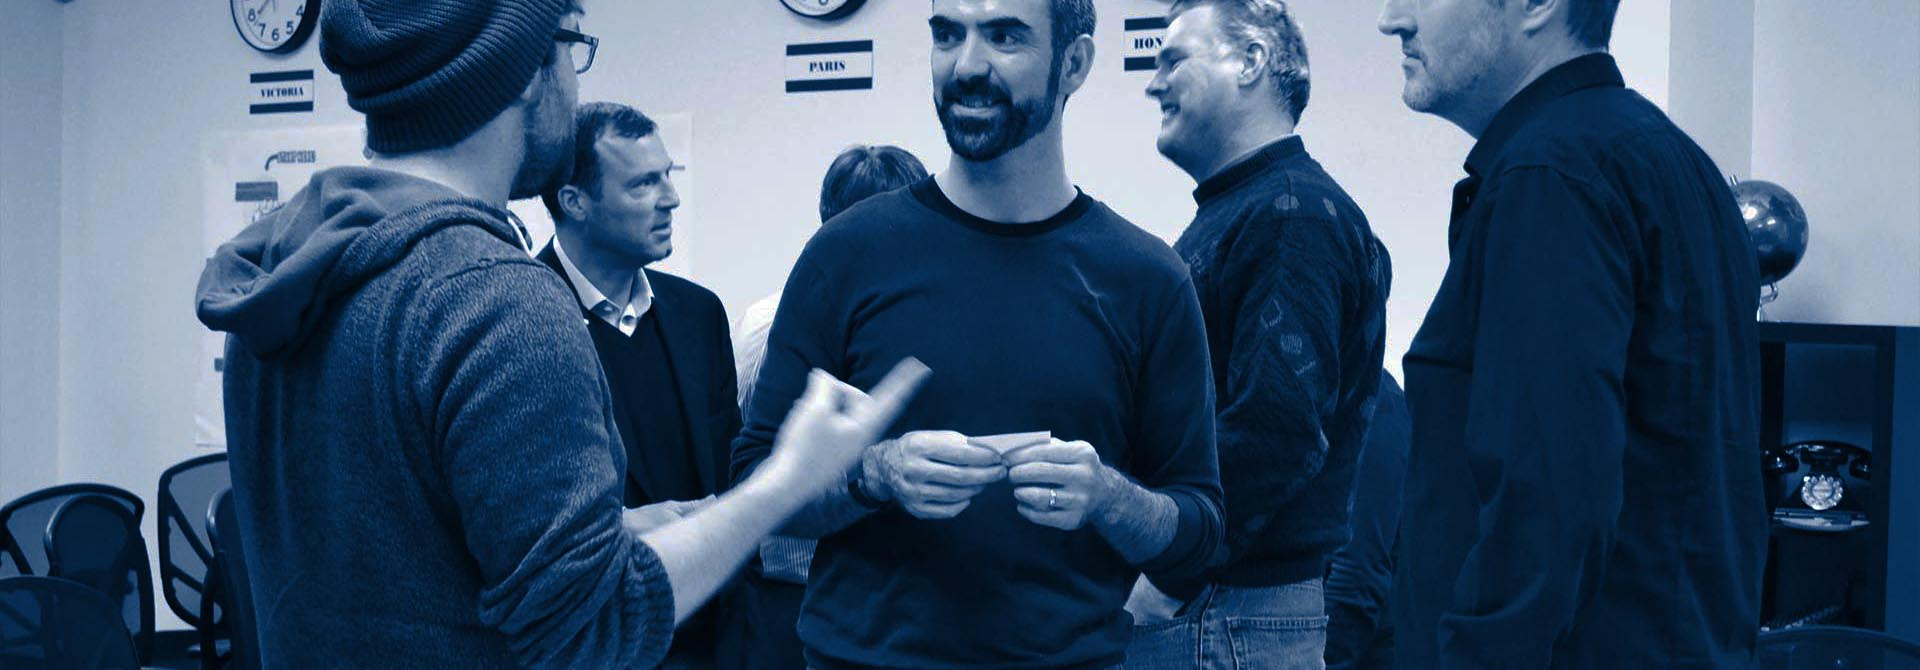
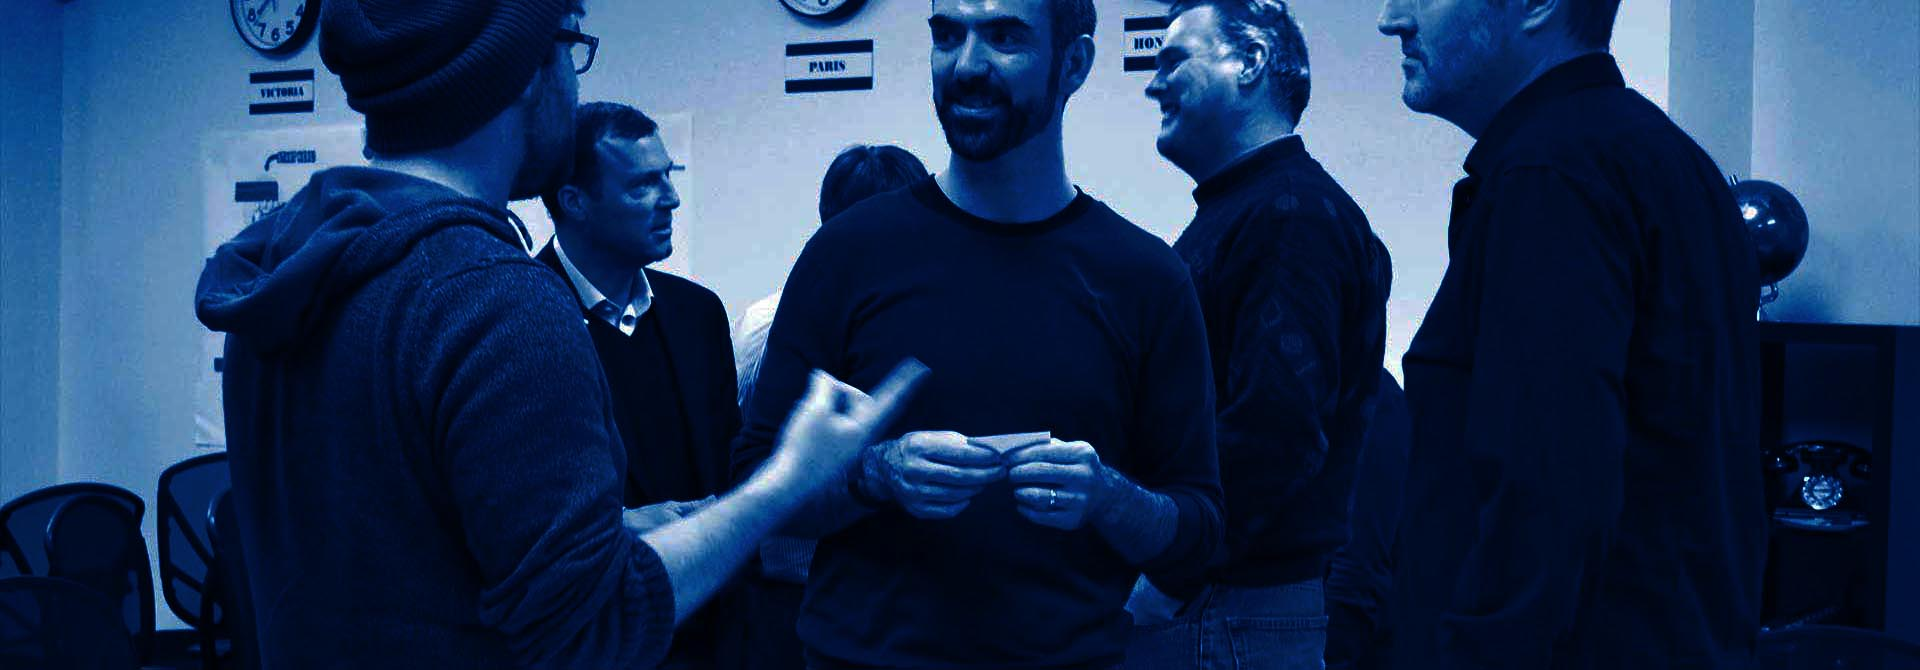
signup page and labels back to solid
added image to signup page

diff --git a/modules/users/client/views/authentication/authentication.client.view.html b/modules/users/client/views/authentication/authentication.client.view.html
@@ -1,23 +1,24 @@
-<section style="background: #000 url('/modules/core/client/img/headers/signup-blue.jpg') no-repeat center;">
+<section class="signup">
 
   <div class="container">
 
-  <div class="row" style="padding-top: 0; margin-top: -10px; margin-bottom: 50px;">
+  <div class="row" style="padding-top: 0; margin-top: -10px;">
 
-    <div class="col-xs-12" style="text-align: center; margin-top: 0;">
-      <p style="color: white;">Join <span style="font-size: 16px;">{{vm.usercount}}</span> other developers, entrepreneurs, and government innovators helping us to evolve.</p>  
-    </div>
-    
-    <div class="col-xs-12 col-md-6" style="text-align: center; padding-bottom: 30px; margin-bottom: 30px;">
-      <h3><a href ng-click="vm.callOauthProvider('/api/auth/github')">Sign in with your GitHub account</h3>
+    <div class="col-xs-12 col-md-6" style="text-align: center; margin-bottom: 30px;">
+      <br>
+      <p style="color: white; font-size: 14px;">Join <!--<span style="font-size: 16px; font-weight: 600;">{{vm.usercount}}</span>--> a community of developers, entrepreneurs, and public service innovators who are making public services better.</p>
+      <br>
+      <div class="card" style="background-color: white;">
+        <h3><a href ng-click="vm.callOauthProvider('/api/auth/github')">Sign in with your GitHub account</h3>
       <!--<div class="social-account-container social-button"><a class="btn"><img class="img-responsive" ng-click="vm.callOauthProvider('/api/auth/github')" ng-src="/modules/users/client/img/buttons/github.png"></a></div>
       <br><br>-->
-      <h2><a href ng-click="vm.callOauthProvider('/api/auth/github')"><i class="fa fa-github fa-3x"></i></a></h2>
-      <p style="color: #d2edf9; font-weight: 100;">Don't have one yet? It only takes a minute.</p>
-      <br>
+        <h2><a href ng-click="vm.callOauthProvider('/api/auth/github')"><i class="fa fa-github fa-3x"></i></a></h2>
+        <p style="color: black; font-weight: 100;">Don't have one yet? It only takes a minute.</p>
+        <br>
+      </div>
     </div>
 
-    <div class="col-xs-12 col-md-4 col-md-offset-2" style="color: white; font-weight: 100;">
+    <div class="col-xs-12 col-md-4 col-md-offset-1" style="color: white; font-weight: 100;">
       <div class="row">
         <div class="container col-md-12" style="text-align: center;">
           <h4 style="color: #d2edf9; line-height: 34px;"><i class="fa fa-university"></i> &nbsp; Public Sector Employees</h3>
@@ -40,8 +41,4 @@
 
 </section>
 
-
-
-
 <div ui-view></div>
-

diff --git a/modules/core/client/css/core.css b/modules/core/client/css/core.css
@@ -240,6 +240,34 @@ section.detail dt {
 	color: #a6a6a6;
 }
 
+section.signup {
+  position: relative;
+  width: 100%;
+  min-height: auto;
+  overflow-y: hidden;
+  background: url('/modules/core/client/img/headers/signup-darkened.jpg') no-repeat center;
+  background-size: cover;
+  margin-top: -20px;
+  padding-top: 20px;
+  padding-bottom: 40px;
+  color: #fff;
+}
+seciton.signup p {
+	font-size: 14px;
+}
+section.signup h2 {
+  font-size: 24px;
+  line-height: 1.6em;
+  color: #fff;
+}
+section.signup h5 {
+	font-weight: 300;
+	font-size: 20px;
+	line-height: 1.7em;
+	padding-bottom: 30px;
+	color: #fff;
+}
+
 section.static {
 	padding-top: 10px;
 	padding-bottom: 40px;
@@ -331,22 +359,22 @@ section.static ul {
 	font-weight: 600;	
 }
 .label-info {
-	background-color: transparent;
+	background-color: #595959;
 	border-color: #595959;
 	border-style: solid;
 	border-width: 2px;
-	color: #595959;
+	color: white;
 	padding: 7px 11px;
 	margin-top: 9px;
 	font-size: 11px;
 	font-weight: 600;
 }
 .label-warning {
-	background-color: transparent; 
+	background-color: #f26925; 
 	border-color: #f26925;
 	border-style: solid;
 	border-width: 3px;
-	color: black;
+	color: white;
 	padding: 7px 11px;
 	margin-top: 9px;
 	font-size: 11px;
